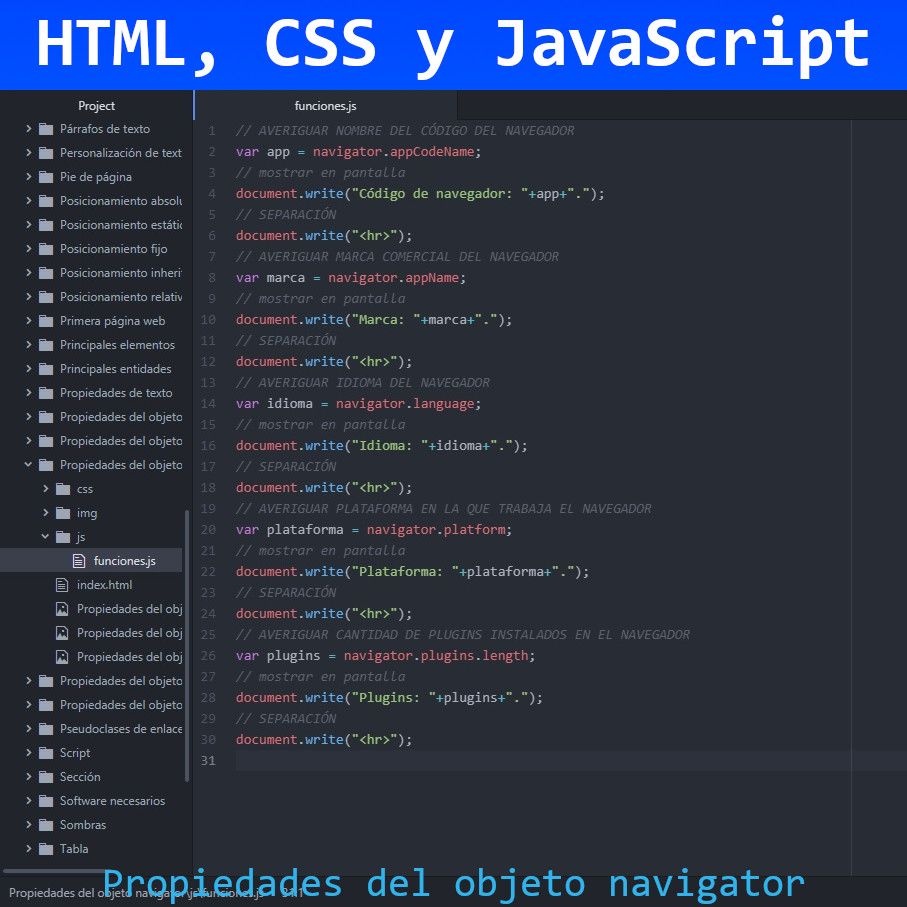
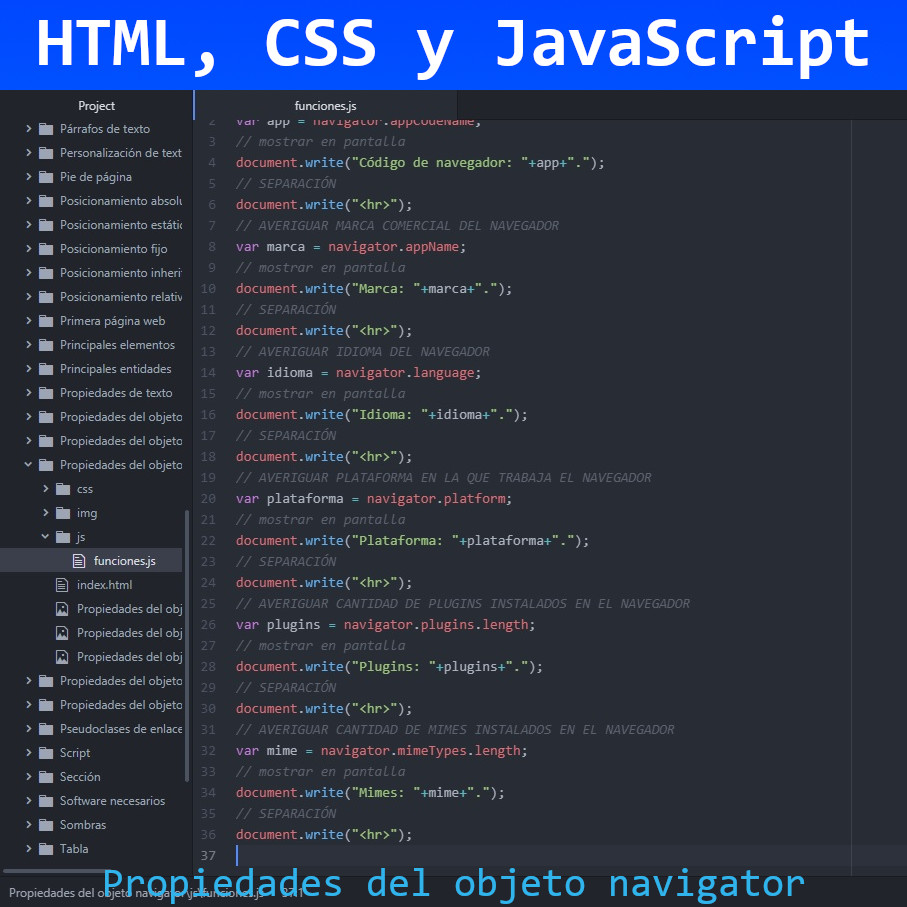
Propiedades del objeto navigator
Propiedades del objeto navigator en JavaScript

diff --git a/HTML, CSS y JavaScript/Propiedades del objeto navigator/js/funciones.js b/HTML, CSS y JavaScript/Propiedades del objeto navigator/js/funciones.js
@@ -28,3 +28,9 @@ var plugins = navigator.plugins.length;
 document.write("Plugins: "+plugins+".");
 // SEPARACIÓN
 document.write("<hr>");
+// AVERIGUAR CANTIDAD DE MIMES INSTALADOS EN EL NAVEGADOR
+var mime = navigator.mimeTypes.length;
+// mostrar en pantalla
+document.write("Mimes: "+mime+".");
+// SEPARACIÓN
+document.write("<hr>");
